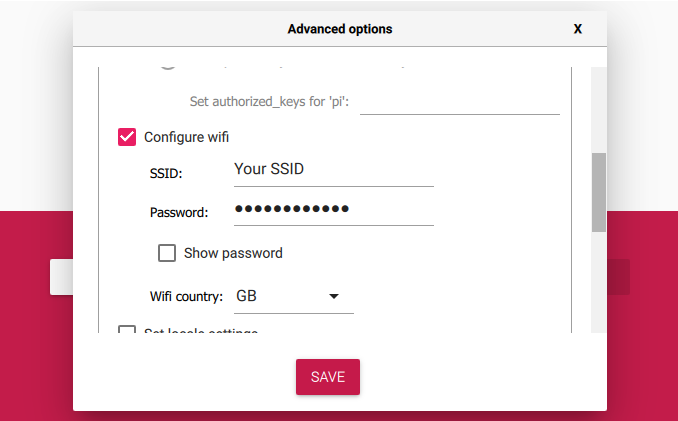
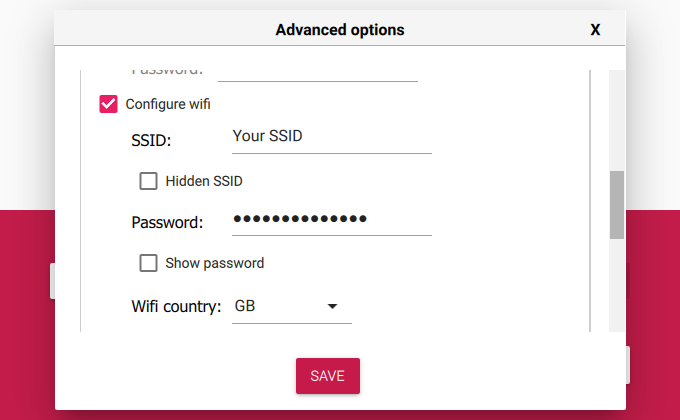
Update setup instructions

diff --git a/download/index.md b/download/index.md
@@ -37,57 +37,71 @@ OctoPi is available through the [Raspberry Pi Imager](https://www.raspberrypi.or
     <a class="btn btn-large btn-block" href="/merch/#kits" data-event-category="download" data-event-action="kits">All-in-one OctoPrint Kits</a>
 </div>
 
-<!--
-<div class="alert">
-  Please note that there have been some reports regarding current revisions of the 
-  <strong>Raspberry Pi 4 refusing to boot</strong> with the latest stable OctoPi image. If that affects 
-  you, please try to flash the latest nightly build instead of the stable version.
-  You can find the nightlies in the Raspberry Pi Imager as well, in a subfolder located 
-  right next to the stable image.
-</div>
--->
-
 **Here's how to get started installing OctoPi**:
 
 1. If you haven't already, **download and install [Raspberry Pi Imager](https://raspberrypi.org/software)** on your computer
 
-2. **Find the OctoPi image** under 'Choose OS', by selecting 'Other Specific Purpose OS' followed by 'OctoPi' and then the 'stable' version.
+2. **Find the OctoPi image** under "Choose OS", by selecting "Other Specific Purpose OS" > "3D printing" > "OctoPi" and then the "stable" version.
 
-3. **Open advanced options** by using the keyboard shortcut <code>ctrl</code>+<code>shift</code>+<code>x</code> to configure your Wifi connection:
-  * Set your SSID, password and WiFi country using the options:
-  ![Advanced Options - Wifi Setup](/assets/img/download/advanced-wifi.png)
+3. **Open advanced options** by clicking on the button with the cog, or by using the keyboard shortcut <code>ctrl</code>+<code>shift</code>+<code>x</code> and then:
+
+   * **Configure your wifi options**: Set your SSID, password and WiFi country:
+     ![Advanced Options - Wifi Setup](/assets/img/download/advanced-wifi.png)
+ 
+   * **Change the *system* password** in "Set username and password" by entering a new password to use for the system user "pi". This is *not* the password you'll use for logging into
+     OctoPrint but one that you'll have to use to log into your Pi via SSH should you ever need to. **Leave the username as "pi", do not change it to anything else!**
+     ![Advanced Options - Wifi Setup](/assets/img/download/advanced-password.png)
+ 
+   * Optionally: Change the configured timezone in "Set locale settings"
+ 
+   * Optionally: Change the hostname in "Set hostname"
 
 4. **Install the image to your SD card**, then plug everything in to your Raspberry Pi and boot it up. **Do not format the SD card after installing, even if prompted to do so.** This will break the installation and you will have to start over!
 
-5. **Log into your Pi via SSH** (it is located at ``octopi.local``
-   [if your computer supports bonjour](https://learn.adafruit.com/bonjour-zeroconf-networking-for-windows-and-linux/overview)
-   or the IP address assigned by your router), default username is `pi`,
-   default password is `raspberry`. Run ``sudo raspi-config``. Once that is open:
-    
-   1. Change the password via "Change User Password"
-   2. Optionally: Change the configured timezone via "Localization Options" > "Timezone".
-   3. Optionally: Change the hostname via "Network Options" > "Hostname". Your OctoPi instance will then no longer be reachable under ``octopi.local`` but rather the hostname you chose postfixed with ``.local``, so keep that in mind.
-    
-   You can navigate in the menus using the arrow keys and <key>Enter</key>. To switch to selecting the buttons at the bottom use <key>Tab</key>.
-    
-   **You do not need to expand the filesystem**, current versions of OctoPi do this automatically.
-   
-   **You also do not need to manually enable the RaspiCam** if you have one, that is already taken care of on the image as well.
-
-5. **Access OctoPrint** through ``http://octopi.local`` or ``http://<your pi's ip address>``. `https` is available too,
-   with a self-signed certificate (which means your browser will warn you about it being invalid).
+5. **Access OctoPrint from your browser** via ``http://octopi.local`` or the hostname you 
+   chose ([if your computer supports bonjour](https://learn.adafruit.com/bonjour-zeroconf-networking-for-windows-and-linux/overview)) 
+   or ``http://<your pi's ip address>``. `https` is available too, with a self-signed certificate 
+   (which means your browser will warn you about it being invalid - it isn't, it's just not recognized by your browser).
 
 Please also refer to [OctoPi's README](https://github.com/guysoft/OctoPi), especially the ["How to use it" section](https://github.com/guysoft/OctoPi#how-to-use-it).
 
-### Alternative Wifi Setup
+### Alternative Initial Setup
 
-If you aren't using Raspberry Pi Imager, then you can also setup the Wifi connection using the `octopi-wpa-supplicant.txt` file
-on the root of the installed card when using it like a thumb drive. 
-**Important: Do not use WordPad (Windows) or TextEdit (MacOS X)**  for this, those editors are known to mangle
-the file, making configuration fail. Use something like Notepad++, Atom or VSCode instead or at the very 
-least heed the warnings in the file.
+If you decide against using the Raspberry Pi Imager, here are some alternative steps to get started:
 
-Please also refer take a look at the [full WiFi setup guide in the FAQ](https://faq.octoprint.org/wifi-setup) that also includes troubleshooting tips.
+1. **Flash the image to your SD card** through whatever alternative means you've chosen.
+
+2. With the SD card still attached to your computer, set up the Wifi connection using the `octopi-wpa-supplicant.txt` file
+   on the root of the installed card when using it like a thumb drive. 
+   **Important: Do not use WordPad (Windows) or TextEdit (MacOS X)**  for this, those editors are known to mangle
+   the file, making configuration fail. Use something like Notepad++, Atom or VSCode instead or at the very 
+   least heed the warnings in the file. If your computer doesn't see the card right away after flashing, try
+   ejecting and inserting it again. **Do not format the SD card after installing, even if prompted to do so.** This will break the installation and you will have to start over!
+
+   Please also refer take a look at the [full WiFi setup guide in the FAQ](https://faq.octoprint.org/wifi-setup) that also includes troubleshooting tips.
+
+3. **Plug everything into your Raspberry Pi and boot it up**
+
+4. **Log into your Pi via SSH** (it is located at ``octopi.local``
+   [if your computer supports bonjour](https://learn.adafruit.com/bonjour-zeroconf-networking-for-windows-and-linux/overview)
+   or the IP address assigned by your router), default username is `pi`, default password is `raspberry`.
+   Run ``sudo raspi-config``. Once that is open:
+
+   1. Change the password via "Change User Password"
+   2. Optionally: Change the configured timezone via "Localization Options" > "Timezone".
+   3. Optionally: Change the hostname via "Network Options" > "Hostname". Your OctoPi instance will then no longer be reachable under ``octopi.local`` but rather the hostname you chose postfixed with ``.local``, so keep that in mind.
+
+   You can navigate in the menus using the arrow keys and <key>Enter</key>. To switch to selecting the buttons at the bottom use <key>Tab</key>.
+
+   **You do not need to expand the filesystem**, current versions of OctoPi do this automatically.
+
+   **You also do not need to manually enable the RaspiCam** if you have one, that is already taken care of on the image as well.
+
+5. **Access OctoPrint** through ``http://octopi.local`` ([if your computer supports bonjour](https://learn.adafruit.com/bonjour-zeroconf-networking-for-windows-and-linux/overview)) 
+   or ``http://<your pi's ip address>``. `https` is available too, with a self-signed certificate 
+   (which means your browser will warn you about it being invalid - it isn't, it's just not recognized by your browser).
+
+Please also refer to [OctoPi's README](https://github.com/guysoft/OctoPi), especially the ["How to use it" section](https://github.com/guysoft/OctoPi#how-to-use-it).
 
 ### Video
 
